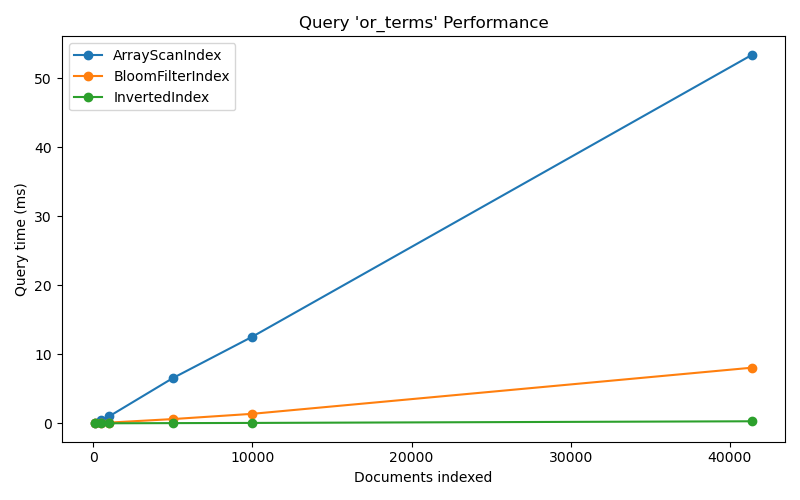
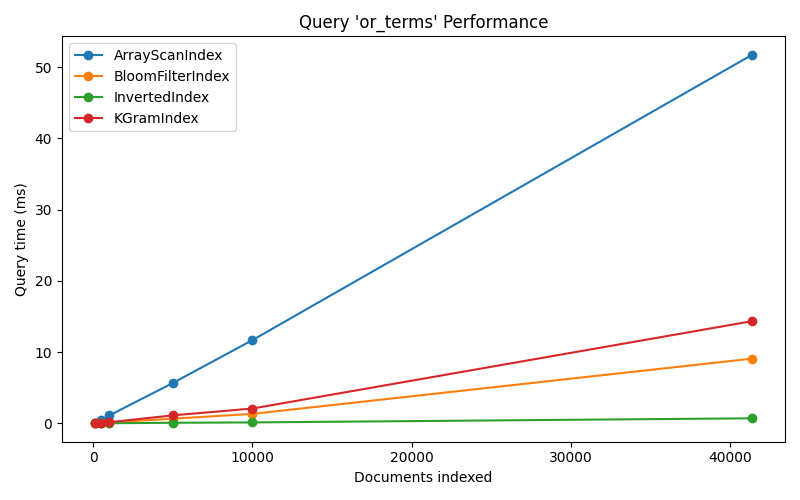
add kgram index with benchmarks

diff --git a/src/indexes/kgram_index.py b/src/indexes/kgram_index.py
@@ -1,0 +1,123 @@
+"""Character k-gram inverted index for substring matching."""
+
+from __future__ import annotations
+
+from collections import defaultdict
+from typing import Dict, Sequence, Set
+
+from .base import Index
+
+
+class KGramIndex(Index):
+    """Character k-gram inverted index for substring/fuzzy matching.
+
+    Instead of indexing by exact tokens, this index generates all k-length
+    character substrings (k-grams) of each token and maintains postings for
+    each gram. Lookup requires verification to ensure the query substring
+    actually appears in the candidate documents.
+
+    Trade-offs:
+    - Memory: higher than exact inverted (more postings due to grams)
+    - Build time: higher (generating all grams per token)
+    - Query time: depends on gram selectivity and verification cost
+    - Results: distinct from exact matching (substring matches)
+    """
+
+    def __init__(self, k: int = 3) -> None:
+        """Initialize k-gram index.
+
+        Args:
+            k: Length of character substrings to index (default 3).
+               Smaller k -> more grams -> more matches but slower.
+               Larger k -> fewer grams -> faster but fewer matches.
+        """
+        self.k = k
+        # gram -> set of doc_ids
+        self._postings: Dict[str, Set[str]] = defaultdict(set)
+        # doc_id -> set of original tokens (for verification)
+        self._documents: Dict[str, Set[str]] = {}
+
+    def add_document(self, doc_id: str, tokens: Sequence[str]) -> None:
+        """Add document by indexing character k-grams of each token.
+
+        Time: O(sum of (len(token) - k + 1) for each token)
+        """
+        token_set = set(tokens)
+        self._documents[doc_id] = token_set
+
+        for token in token_set:
+            token_lower = token.lower()
+            # For short tokens, index the whole token as a single gram
+            if len(token_lower) < self.k:
+                self._postings[token_lower].add(doc_id)
+            else:
+                # Generate all k-grams of this token
+                for i in range(len(token_lower) - self.k + 1):
+                    gram = token_lower[i : i + self.k]
+                    self._postings[gram].add(doc_id)
+
+    def lookup_term(self, term: str) -> Set[str]:
+        """Lookup documents containing the term as a substring.
+
+        Algorithm:
+        1. Generate k-grams of the query term
+        2. For each gram, get candidate doc_ids from postings
+        3. Intersect the candidate sets (docs must have ALL grams)
+        4. Verify candidates: confirm term appears as substring in doc tokens
+        5. Return verified doc_ids
+
+        This two-phase approach (candidate generation + verification) avoids
+        false positives from gram collisions.
+        """
+        term_lower = term.lower()
+
+        # Special case: term shorter than k
+        if len(term_lower) < self.k:
+            # Treat entire term as a gram
+            return self._postings.get(term_lower, set()).copy()
+
+        # Generate k-grams of query term
+        query_grams = [
+            term_lower[i : i + self.k] for i in range(len(term_lower) - self.k + 1)
+        ]
+
+        # Intersect postings of all query grams
+        candidates = None
+        for gram in query_grams:
+            if gram not in self._postings:
+                return set()  # Fast negative: gram not indexed
+            if candidates is None:
+                candidates = set(self._postings[gram])
+            else:
+                candidates &= self._postings[gram]
+            if not candidates:
+                return set()  # Early termination
+
+        # Phase 2: Verify candidates
+        # A candidate doc may have all grams but the term substring may not appear
+        # (gram collision). Verify by checking if term appears in any token.
+        results = set()
+        for doc_id in candidates:
+            # Check if term appears as substring in any original token
+            for token in self._documents[doc_id]:
+                if term_lower in token.lower():
+                    results.add(doc_id)
+                    break
+        return results
+
+    def get_statistics(self) -> dict:
+        """Return statistics about the k-gram index."""
+        vocab_size = len(self._postings)
+        total_postings = sum(len(posting_set) for posting_set in self._postings.values())
+        avg_posting_length = (
+            total_postings / vocab_size if vocab_size > 0 else 0
+        )
+        return {
+            "k": self.k,
+            "vocabulary_size": vocab_size,
+            "avg_posting_length": avg_posting_length,
+            "num_documents": len(self._documents),
+        }
+
+
+__all__ = ["KGramIndex"]

diff --git a/tests/test_search_pipeline.py b/tests/test_search_pipeline.py
@@ -1,6 +1,7 @@
 import unittest
 
 from src import ArrayScanIndex, InvertedIndex, SearchEngine, tokenize
+from src.indexes.kgram_index import KGramIndex
 
 
 class TokenizerTests(unittest.TestCase):
@@ -35,6 +36,54 @@ class SearchEngineTests(unittest.TestCase):
     def test_and_short_circuit(self) -> None:
         engine = self._build_engine(InvertedIndex)
         result_ids = [doc.doc_id for doc in engine.search("legroom nonexistent", match_mode="and")]
+        self.assertEqual(result_ids, [])
+
+
+class KGramIndexTests(unittest.TestCase):
+    """Test k-gram index substring matching behavior."""
+
+    SAMPLE_DOCS = {
+        "doc:0": "comfortable seating legroom",
+        "doc:1": "discomfort with narrow legroom",
+        "doc:2": "leg space",
+    }
+
+    def test_kgram_exact_match(self) -> None:
+        """K-gram should match exact tokens like inverted index."""
+        engine = SearchEngine(KGramIndex(k=3))
+        for doc_id, text in self.SAMPLE_DOCS.items():
+            engine.add_document(doc_id, text)
+        # Search for exact token "legroom"
+        result_ids = [doc.doc_id for doc in engine.search("legroom", match_mode="and")]
+        self.assertIn("doc:0", result_ids)
+        self.assertIn("doc:1", result_ids)
+
+    def test_kgram_substring_match(self) -> None:
+        """K-gram should match substrings (distinct from exact matching)."""
+        engine = SearchEngine(KGramIndex(k=3))
+        for doc_id, text in self.SAMPLE_DOCS.items():
+            engine.add_document(doc_id, text)
+        # Search for substring "comfort" (matches "comfortable" and "discomfort")
+        result_ids = sorted([doc.doc_id for doc in engine.search("comfort", match_mode="and")])
+        # Should return doc:0 (comfortable) and doc:1 (discomfort)
+        self.assertEqual(result_ids, ["doc:0", "doc:1"])
+
+    def test_kgram_short_query(self) -> None:
+        """K-gram with query shorter than k should still work."""
+        engine = SearchEngine(KGramIndex(k=3))
+        for doc_id, text in self.SAMPLE_DOCS.items():
+            engine.add_document(doc_id, text)
+        # Search for substring "leg" (shorter than k=3)
+        result_ids = sorted([doc.doc_id for doc in engine.search("leg", match_mode="and")])
+        # Should find doc:0 (legroom), doc:1 (legroom), and doc:2 (leg)
+        self.assertEqual(result_ids, ["doc:0", "doc:1", "doc:2"])
+
+    def test_kgram_no_match(self) -> None:
+        """K-gram should return empty set for non-matching query."""
+        engine = SearchEngine(KGramIndex(k=3))
+        for doc_id, text in self.SAMPLE_DOCS.items():
+            engine.add_document(doc_id, text)
+        result_ids = [doc.doc_id for doc in engine.search("xyz", match_mode="and")]
         self.assertEqual(result_ids, [])
 
 

diff --git a/scripts/enhanced_benchmarks.py b/scripts/enhanced_benchmarks.py
@@ -69,19 +69,17 @@ def get_index_statistics(index: IndexBase) -> Dict[str, int]:
     """Extract statistics about the index structure."""
     stats = {
         'vocabulary_size': 0,
-        'total_postings': 0,
         'avg_posting_length': 0
     }
     
     try:
         if hasattr(index, '_postings'):  # InvertedIndex
             stats['vocabulary_size'] = len(index._postings)
-            stats['total_postings'] = sum(len(posting) for posting in index._postings.values())
+            total_postings = sum(len(posting) for posting in index._postings.values())
             if stats['vocabulary_size'] > 0:
-                stats['avg_posting_length'] = stats['total_postings'] / stats['vocabulary_size']
+                stats['avg_posting_length'] = total_postings / stats['vocabulary_size']
         elif hasattr(index, '_documents'):  # ArrayScanIndex
             stats['vocabulary_size'] = 0  # Not applicable
-            stats['total_postings'] = sum(len(tokens) for tokens in index._documents.values())
         elif hasattr(index, '_root'):  # TrieIndex
             def count_nodes(node):
                 if node is None:
@@ -336,7 +334,6 @@ def main(argv: Iterable[str]) -> None:
                 "peak_memory_mib": peak_mem,
                 "index_memory_mib": actual_mem,
                 "vocabulary_size": stats['vocabulary_size'],
-                "total_postings": stats['total_postings'],
                 "avg_posting_length": stats['avg_posting_length'],
             }
             
@@ -351,7 +348,6 @@ def main(argv: Iterable[str]) -> None:
             print(f"  Peak Memory:     {peak_mem:.2f} MiB")
             print(f"  Index Memory:    {actual_mem:.2f} MiB")
             print(f"  Vocabulary:      {stats['vocabulary_size']:,} unique terms")
-            print(f"  Total Postings:  {stats['total_postings']:,}")
             if stats['avg_posting_length'] > 0:
                 print(f"  Avg Post. Len:   {stats['avg_posting_length']:.1f}")
             

diff --git a/src/indexes/__init__.py b/src/indexes/__init__.py
@@ -4,5 +4,6 @@ from .base import Index
 from .array_scan import ArrayScanIndex
 from .inverted import InvertedIndex
 from .bloom_filter import BloomFilterIndex
+from .kgram_index import KGramIndex
 
-__all__ = ["Index", "ArrayScanIndex", "InvertedIndex", "BloomFilterIndex"]
+__all__ = ["Index", "ArrayScanIndex", "InvertedIndex", "BloomFilterIndex", "KGramIndex"]
